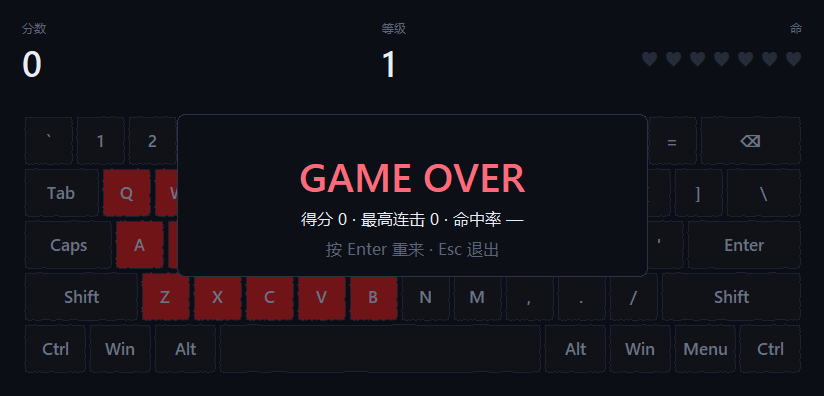
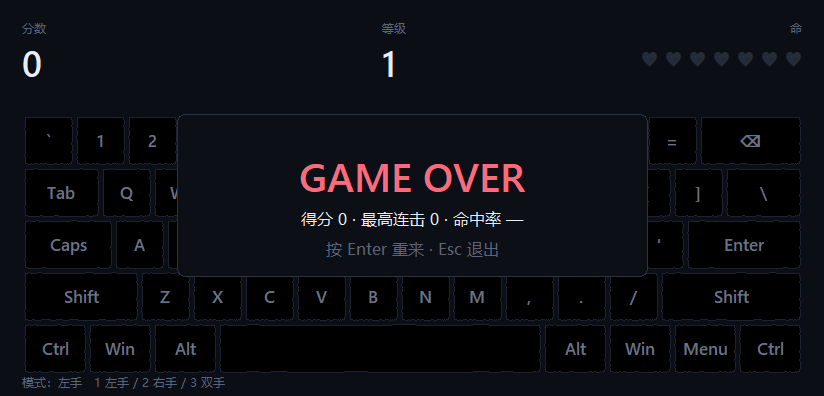
更新截图、修菜单底部行距、支持 --shot 演示态

Changed region(s): [[0.1214, 0.4242, 0.4854, 0.8182], [0.0303, 0.9394, 0.2731, 1.0]]

diff --git a/keymole/app.py b/keymole/app.py
@@ -104,6 +104,9 @@ def run_gui(args) -> int:
         print("[KeyMole] 已记住 HUB 灯效，退出时自动还原")
 
     def status_text() -> str:
+        forced = os.environ.get("KEYMOLE_STATUS")
+        if forced:                    # 出图/演示用：强制显示某个通道名
+            return forced
         if not hardware:
             return "灯效：只有屏幕（没找到可控制的键盘）　F5 重新连接"
         best = hardware[0]
@@ -427,6 +430,9 @@ def run_gui(args) -> int:
     if args.shot:
         def _do_shot() -> None:
             now = time.perf_counter()
+            if os.environ.get("KEYMOLE_SHOT_PLAY"):
+                start_game()
+                now = time.perf_counter()
             _demo_moles(game, now)
             if os.environ.get("KEYMOLE_SHOT_OVER"):  # 出图用：伪造一局结束的画面
                 game.lives = 0

diff --git a/keymole/display/screen.py b/keymole/display/screen.py
@@ -183,9 +183,9 @@ class ScreenDisplay(Display):
             cx, y0 + bh + 34, text="1 / 2 / 3 或点击选择    Enter 开始    Esc 退出",
             fill=HUD_DIM, font=FONT_HUD_LABEL)
         self._menu["best"] = c.create_text(
-            cx, self.h - 26, text="", fill=HUD_ACCENT, font=FONT_HUD_LABEL)
+            cx, self.h - 38, text="", fill=HUD_ACCENT, font=FONT_HUD_LABEL)
         self._menu["status"] = c.create_text(
-            cx, self.h - 52, text="", fill=HUD_DIM, font=FONT_HUD_LABEL)
+            cx, self.h - 64, text="", fill=HUD_DIM, font=FONT_HUD_LABEL)
         self.hide_menu()
 
     def _menu_items(self) -> list:
